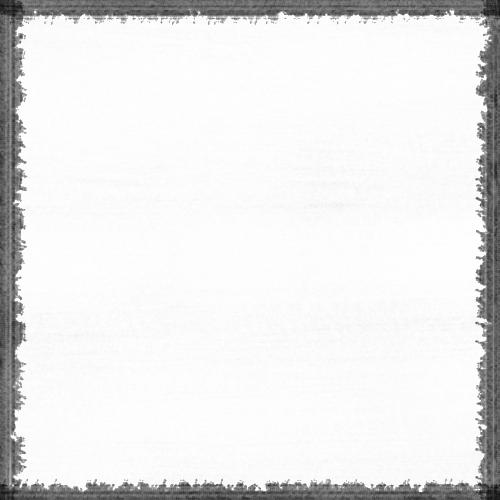
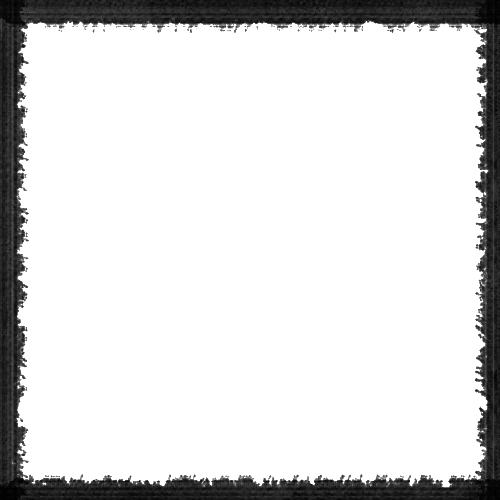
Fixed the file names with new Tiles
~ Current Player Tile changed

Changed region(s): [[0.0, 0.0, 1.0, 1.0]]

diff --git a/NumberGame/sketch.js b/NumberGame/sketch.js
@@ -137,8 +137,8 @@ function draw(){
     textAlign(LEFT, TOP);
     textSize(boarddims[1]);
     if(turn == i){
-      fill(255, 0, 0, 128);
-      rect((players[i].x)*boarddims[0] + boardoffsets[0], (players[i].y+0)*boarddims[1] + boardoffsets[1], boarddims[0], boarddims[1]);
+      // fill(255, 0, 0, 128);
+      // rect((players[i].x)*boarddims[0] + boardoffsets[0], (players[i].y+0)*boarddims[1] + boardoffsets[1], boarddims[0], boarddims[1]);
       image(currentborder, (players[i].x)*boarddims[0] + boardoffsets[0], (players[i].y+0)*boarddims[1] + boardoffsets[1], boarddims[0], boarddims[1]);
     }
     fill(0);
